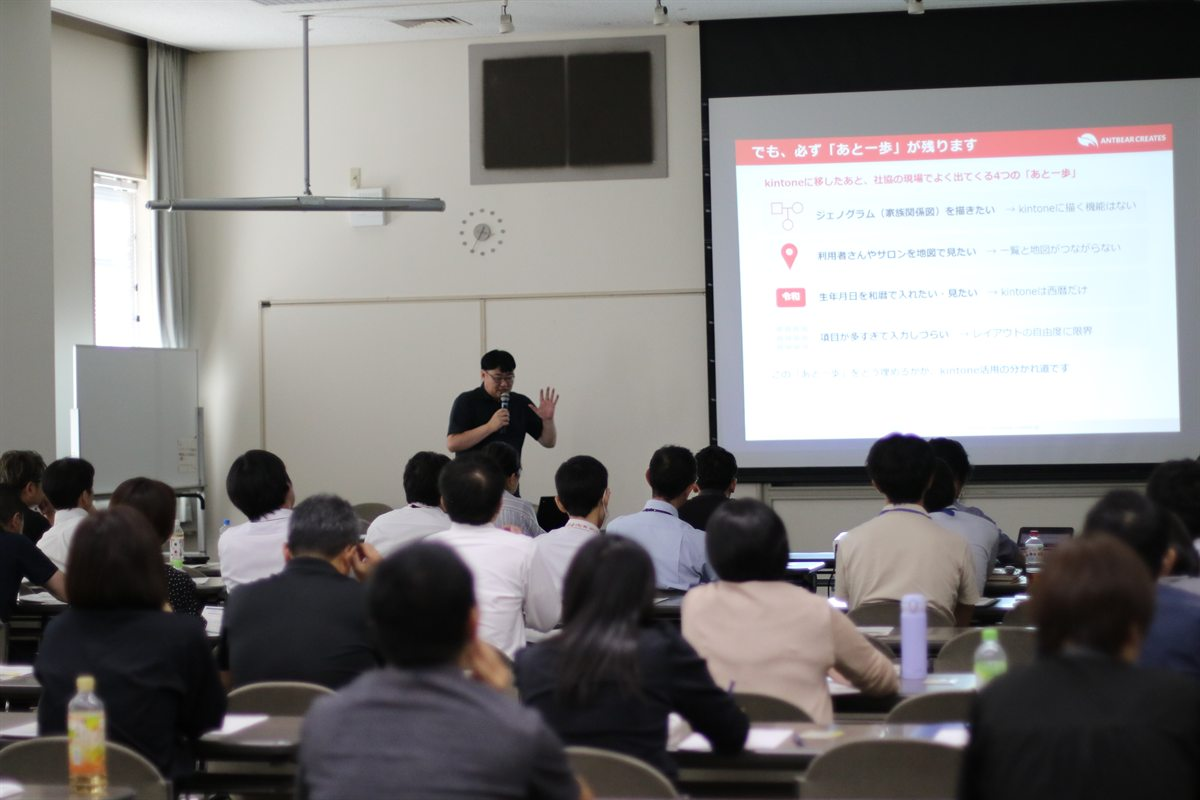
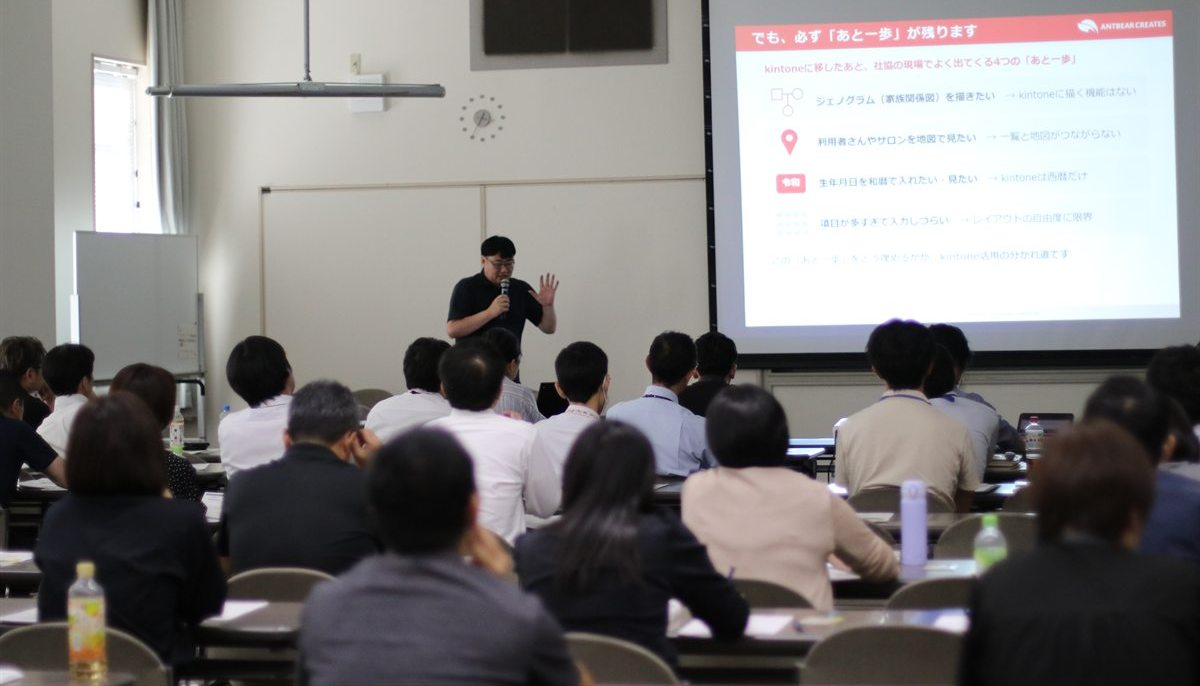
セミナーレポート：上部ギャラリーを3枚に（中央に登壇写真追加）、上部1/7カット・比率7:4

diff --git a/events/social-welfare-seminar-2026-08/index.html b/events/social-welfare-seminar-2026-08/index.html
@@ -122,13 +122,13 @@
         /* 会場写真ギャラリー */
         .photo-gallery {
             display: grid;
-            grid-template-columns: repeat(2, 1fr);
+            grid-template-columns: repeat(3, 1fr);
             gap: 14px;
             margin: 8px 0 8px;
         }
         .photo-gallery img {
             width: 100%;
-            aspect-ratio: 3 / 2;
+            aspect-ratio: 7 / 4;
             object-fit: cover;
             border-radius: 10px;
             display: block;
@@ -354,6 +354,7 @@
                 <!-- 上部ギャラリー -->
                 <div class="photo-gallery">
                     <img src="top-panel.jpg" alt="セミナー当日の講演と会場の様子">
+                    <img src="top-middle.jpg" alt="セミナー当日の講演と会場の様子">
                     <img src="top-lecture.jpg" alt="セミナー当日の講演と会場の様子">
                 </div>
 
